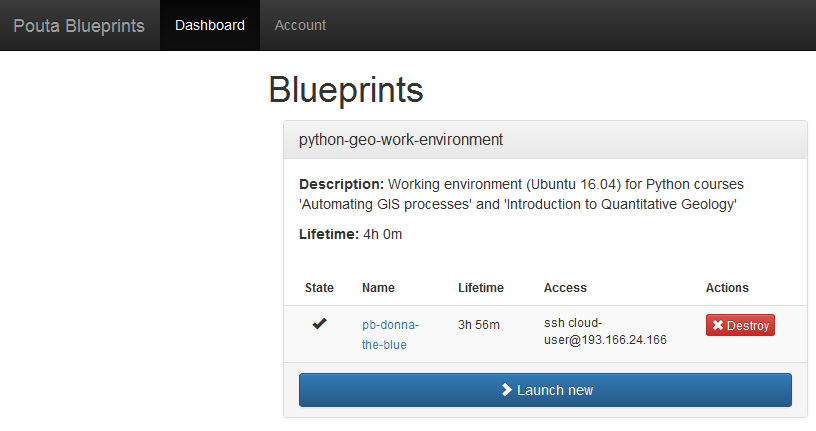
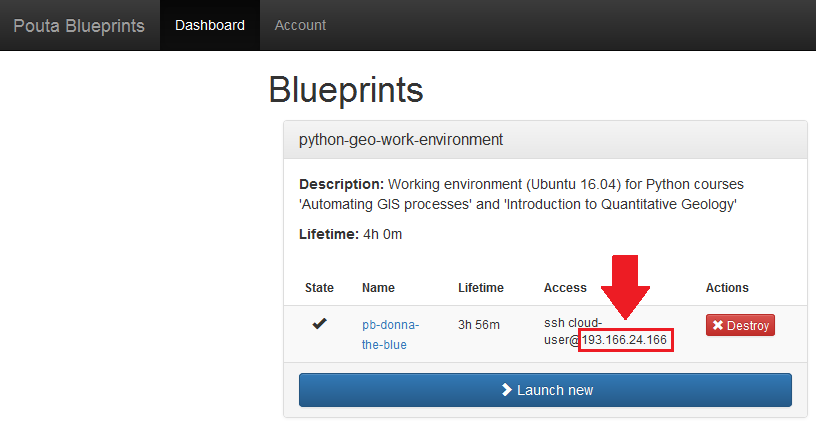
Added docs about the course environment

Changed region(s): [[0.7047, 0.5731, 0.8272, 0.8144]]

diff --git a/log-in-to-pb-and-access.md b/log-in-to-pb-and-access.md
@@ -1,9 +1,57 @@
 # Launching and connecting to the Computer Instance
 
-Here, we will guide you how to start a new computer instance (i.e. the cloud computer) and how to access it from your local computer.
-You will do these steps repeatedly during the course so it will become familiar to you after awhile. 
+This tutorial will guide you how to start a new computer instance (i.e. the cloud computer) and how to access it from your local computer.
+You will do these (2) steps repeatedly during the course so it will become familiar to you after awhile. 
+ 
+## 1. Launch a new computer instance
+
+Launching a new instance is a straightforward procedure which is done from the Computing Dashboard. 
+
+ 1. Go with a browser to [pb-geo.helsinki.fi](pb-geo.helsinki.fi) OR WHATEVER THE ADDRESS WILL BE!
+ 
+ 2. Log into Computing Dashboard
+ 
+ 3. Launch a new instance
+ 
+ 4. Wait until instance is ready (you'll see WHAT?) and 
+ go to instance details by pressing it's name 
+ (here 'pb-donna-the-blue' but it changes every time)
+  
+ 5. Press 'Query client IP' button
+ 
+ 6. Press 'Change client IP' button
+ 
+ 7. Go back to Dashboard tab
+  
+Steps 5 and 6 are done to open a port to the computer instance from your local computer. A port in a computer is a somewhat similar idea than 
+having a door in a house: you cannot access the house without having an open door.  
+ 
+## 2. Connect to the computer instance
+
+There are basically two things that you need to have for being able to use a remote computer instance: 
+ 
+ - IP address of the (running) computer instance
+ - Remote Desktop software (a 'viewer') at your local computer that is used to access the remote computer
+
+There are slightly different ways of accessing the cloud computer instance depending on:
+ 
+ - Operating System (Windows / Mac / Linux)
+ - Remote Desktop software (or protocol) that you are using (RDP / VNC)
+ 
+Below are instructions how to access the computer instance on different systems (choose the one that you have). 
+
+### Copy and paste the IP address of your computer instance
+
+This step is common for all operating systems.
+ 
+You can find the IP address from the Computing Dashboard under the **'Access'** column. Copy and paste only the numbers. 
+We won't be needing the rest of the information mentioned there. *(They are used for taking a specific SSH connection (with command prompt) to the computer).*   
+
+ ![Copy IP address of the computer instance](img/13_copy_access_IP_address.PNG)
+
+### Connect to computer instance on Windows
 
 
 
-
+### Connect to computer instance on Mac / Linux
   

diff --git a/README.md b/README.md
@@ -8,9 +8,9 @@ that is based on principles of cloud computing.
 
 The course environment is comprised of three components that will be used actively during the course:
  
- - Computing Dashboard 
- - Computer Instance
- - Github  
+ - **Computing Dashboard** 
+ - **Computer Instance**
+ - **GitHub (+ Git)**  
 
 You can use the course environment by any computer at the university and also from your own computer. All you need is a working internet connection,
 web browser and a specific [Remote Desktop software](https://en.wikipedia.org/wiki/Remote_desktop_software) that comes with every computer.
@@ -30,9 +30,9 @@ that you can use in a similar manner as you would use your own computer.
 The difference is that the computer is located in the 'cloud' i.e. it is physically located and run in somewhere else 
 (basically on the servers of [CSC Finland](https://www.csc.fi/home)) and you use it remotely from any computer with an internet connection.
 
-## Github
+## GitHub
 
-Some info about Github and a link to a page where guide for creating a Github account and logging in + idea about Github Classroom  
+Some info about GitHub and a link to a page where guide for creating a GitHub account and logging in + idea about GitHub Classroom  
 
 ## Next steps
 
